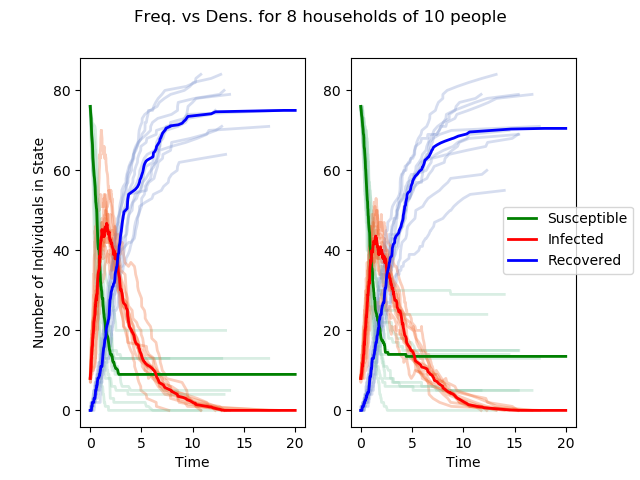
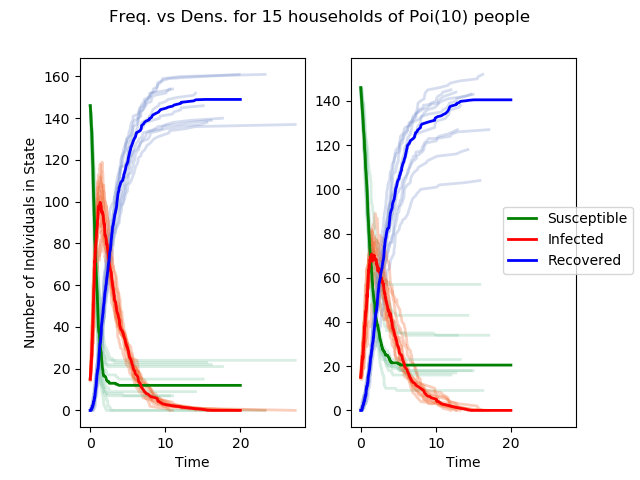
poisson testing complete

diff --git a/Density_Frequency_Experimentation.py b/Density_Frequency_Experimentation.py
@@ -307,7 +307,7 @@ def main(er_small_test=True, household_test=True, random_test=True):
         maxbeta = 4
         t = np.linspace(0,tMax,1000)
 
-        N = 8
+        N = 15
         n = 4
         network, house_sizes = create_random_neighbourhood(N,n)
         num = np.sum(house_sizes)
@@ -318,7 +318,7 @@ def main(er_small_test=True, household_test=True, random_test=True):
             rates[num+inf] = maxalpha
             # set infection hazard
             rates[inf] = maxbeta*numSusNei[inf]/network.degree(inf)
-        title = f"Freq. vs Dens. for {N} households of {n} people"
+        title = f"Freq. vs Dens. for {N} households of Poi({n}) people"
         fname = f"PythonPlotting/Freq_Dens_Poisson_Test/{n}"
         S4freq, I4freq, R4freq, S4dens, I4dens, R4dens = freq_dens_simulation(10, gillespieFrequency, gillespieDensity, tMax, network, iTotal, sTotal, rTotal, numSusNei, rates, susceptible, 
         maxalpha, maxbeta, title, fname)
@@ -333,7 +333,7 @@ def main(er_small_test=True, household_test=True, random_test=True):
             rates[num+inf] = maxalpha
             # set infection hazard
             rates[inf] = maxbeta*numSusNei[inf]/network.degree(inf)
-        title = f"Freq. vs Dens. for {N} households of {n} people"
+        title = f"Freq. vs Dens. for {N} households of Poi({n}) people"
         fname = f"PythonPlotting/Freq_Dens_Poisson_Test/{n}"
         S6freq, I6freq, R6freq, S6dens, I6dens, R6dens = freq_dens_simulation(10, gillespieFrequency, gillespieDensity, tMax, network, iTotal, sTotal, rTotal, numSusNei, rates, susceptible, 
         maxalpha, maxbeta, title, fname)
@@ -349,7 +349,7 @@ def main(er_small_test=True, household_test=True, random_test=True):
             rates[num+inf] = maxalpha
             # set infection hazard
             rates[inf] = maxbeta*numSusNei[inf]/network.degree(inf)
-        title = f"Freq. vs Dens. for {N} households of {n} people"
+        title = f"Freq. vs Dens. for {N} households of Poi({n}) people"
         fname = f"PythonPlotting/Freq_Dens_Poisson_Test/{n}"
         S8freq, I8freq, R8freq, S8dens, I8dens, R8dens = freq_dens_simulation(10, gillespieFrequency, gillespieDensity, tMax, network, iTotal, sTotal, rTotal, numSusNei, rates, susceptible, 
         maxalpha, maxbeta, title, fname)
@@ -365,25 +365,25 @@ def main(er_small_test=True, household_test=True, random_test=True):
             rates[num+inf] = maxalpha
             # set infection hazard
             rates[inf] = maxbeta*numSusNei[inf]/network.degree(inf)
-        title = f"Freq. vs Dens. for {N} households of {n} people"
+        title = f"Freq. vs Dens. for {N} households of Poi({n}) people"
         fname = f"PythonPlotting/Freq_Dens_Poisson_Test/{n}"
         S10freq, I10freq, R10freq, S10dens, I10dens, R10dens = freq_dens_simulation(10, gillespieFrequency, gillespieDensity, tMax, network, iTotal, sTotal, rTotal, numSusNei, rates, susceptible, 
         maxalpha, maxbeta, title, fname)
 
 
         fig = plt.figure()
-        plt.plot(t, I4dens, color="red",label="4 - Freq.",lw = 2, alpha=0.5,figure=fig)
-        plt.plot(t, I4freq, color="red",linestyle="dashed",label="4 - Dens.",lw = 2, alpha=0.5,figure=fig)
-        plt.plot(t, I6freq, color="blue",label="6 - Freq.",lw = 2, alpha=0.5,figure=fig)
-        plt.plot(t, I6dens, color="blue",linestyle="dashed",label="6  - Dens.",lw = 2, alpha=0.5,figure=fig)
-        plt.plot(t, I8freq, color="green",label="8 - Freq.",lw = 2, alpha=0.5,figure=fig)
-        plt.plot(t, I8dens, color="green",linestyle="dashed",label="8 - Dens.",lw = 2, alpha=0.5,figure=fig)
-        plt.plot(t, I10freq, color="orange",label="10 - Freq.",lw = 2, alpha=0.5,figure=fig)
-        plt.plot(t, I10dens, color="orange",linestyle="dashed",label="10 - Dens.",lw = 2, alpha=0.5,figure=fig)
+        plt.plot(t, I4dens, color="red",label="Poi(4) - Freq.",lw = 2, alpha=0.5,figure=fig)
+        plt.plot(t, I4freq, color="red",linestyle="dashed",label="Poi(4) - Dens.",lw = 2, alpha=0.5,figure=fig)
+        plt.plot(t, I6freq, color="blue",label="Poi(6) - Freq.",lw = 2, alpha=0.5,figure=fig)
+        plt.plot(t, I6dens, color="blue",linestyle="dashed",label="Poi(6)  - Dens.",lw = 2, alpha=0.5,figure=fig)
+        plt.plot(t, I8freq, color="green",label="Poi(8) - Freq.",lw = 2, alpha=0.5,figure=fig)
+        plt.plot(t, I8dens, color="green",linestyle="dashed",label="Poi(8) - Dens.",lw = 2, alpha=0.5,figure=fig)
+        plt.plot(t, I10freq, color="orange",label="Poi(10) - Freq.",lw = 2, alpha=0.5,figure=fig)
+        plt.plot(t, I10dens, color="orange",linestyle="dashed",label="Poi(10) - Dens.",lw = 2, alpha=0.5,figure=fig)
         plt.legend()
         plt.xlabel("Time")
         plt.ylabel("Number of Infected Individuals")
-        plt.title(f"Freq. vs. Dens. with varying household sizes")
+        plt.title(f"Freq. vs. Dens. with varying Poi sizes")
         plt.savefig(f"PythonPlotting/Freq_Dens_Poisson_Test/Comp")
 
 if __name__=="__main__":
